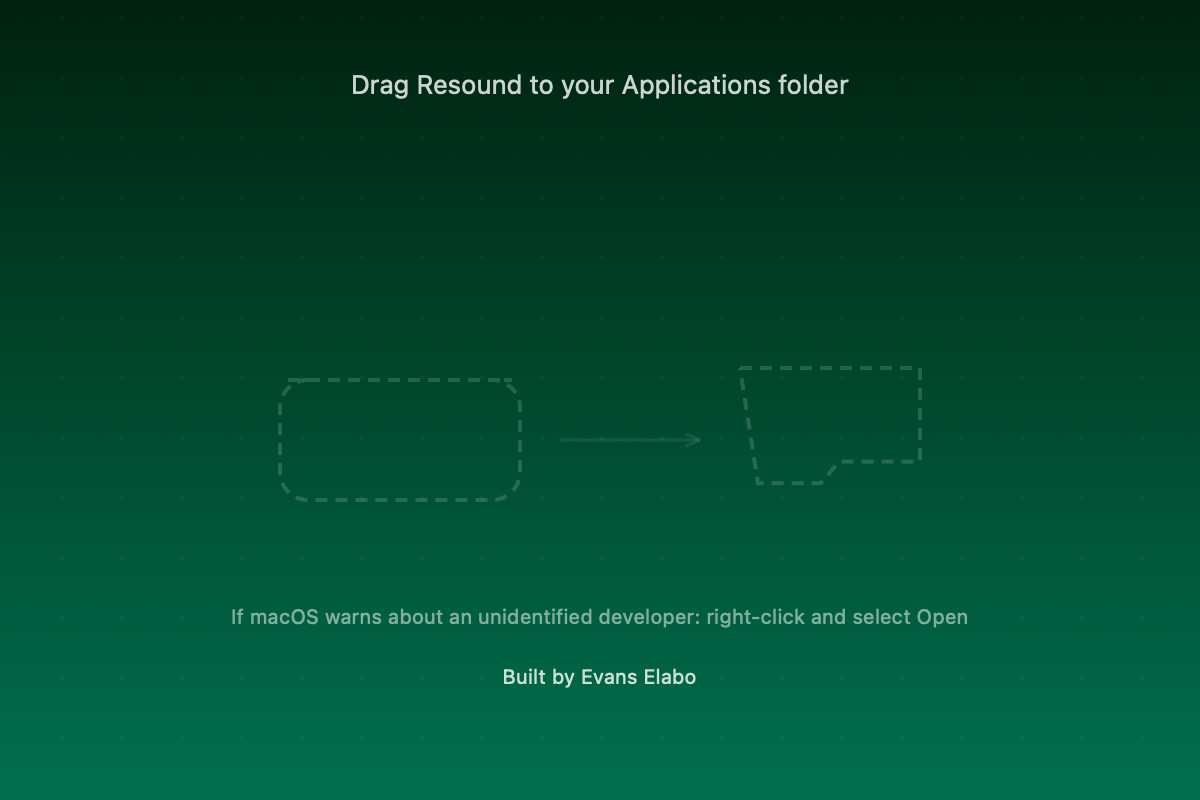
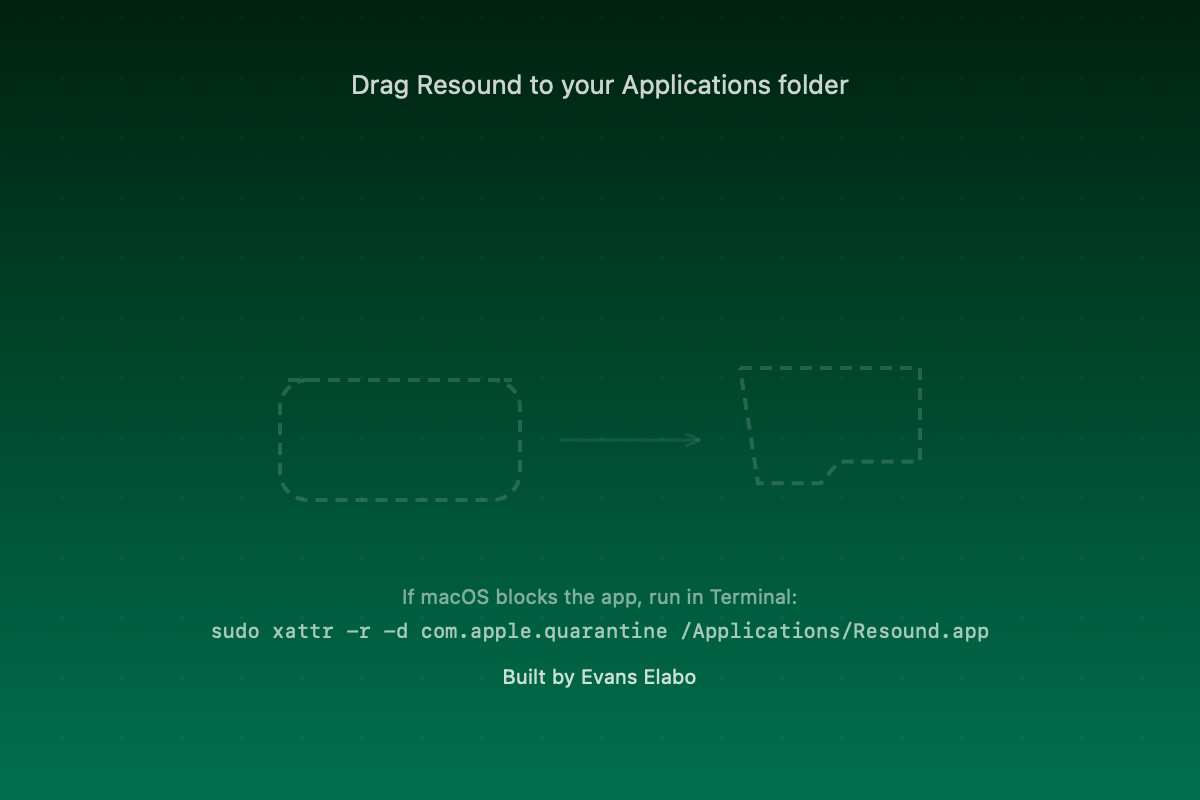
Add README with install instructions

Changed region(s): [[0.185, 0.7188, 0.8325, 0.8125]]

diff --git a/scripts/generate-background.swift b/scripts/generate-background.swift
@@ -101,13 +101,20 @@ let instrSize = (instruction as NSString).size(withAttributes: instrAttr)
 (instruction as NSString).draw(at: CGPoint(x: CGFloat(width) / 2 - instrSize.width / 2, y: CGFloat(height) - 50), withAttributes: instrAttr)
 
 // Gatekeeper hint
-let gkNote = "If macOS warns about an unidentified developer: right-click and select Open"
+let gkNote = "If macOS blocks the app, run in Terminal:"
+let gkCmd = "sudo xattr -r -d com.apple.quarantine /Applications/Resound.app"
 let gkAttr: [NSAttributedString.Key: Any] = [
     .font: NSFont.systemFont(ofSize: 10, weight: .regular),
     .foregroundColor: NSColor(white: 1, alpha: 0.5)
 ]
+let gkCmdAttr: [NSAttributedString.Key: Any] = [
+    .font: NSFont.monospacedSystemFont(ofSize: 10, weight: .regular),
+    .foregroundColor: NSColor(white: 1, alpha: 0.65)
+]
 let gkSize = (gkNote as NSString).size(withAttributes: gkAttr)
-(gkNote as NSString).draw(at: CGPoint(x: CGFloat(width) / 2 - gkSize.width / 2, y: 85), withAttributes: gkAttr)
+(gkNote as NSString).draw(at: CGPoint(x: CGFloat(width) / 2 - gkSize.width / 2, y: 95), withAttributes: gkAttr)
+let gkCmdSize = (gkCmd as NSString).size(withAttributes: gkCmdAttr)
+(gkCmd as NSString).draw(at: CGPoint(x: CGFloat(width) / 2 - gkCmdSize.width / 2, y: 78), withAttributes: gkCmdAttr)
 
 // Builder credit
 let credit = "Built by Evans Elabo"

diff --git a/README.md b/README.md
@@ -1,0 +1,59 @@
+# Resound
+
+A macOS menubar app that adds a Dynamic Island-style music controller to your Mac's notch. Sits as a compact pill at the top of the screen showing now-playing info from Spotify or Apple Music — expands on hover with full controls.
+
+![DMG preview](scripts/dmg-background.png)
+
+## Features
+
+- **Dynamic Island pill** — compact (38pt) and expanded (192pt) states with smooth animation
+- **Now playing** — track info, album art, progress bar with elapsed/remaining time
+- **Playback controls** — play/pause, skip, previous
+- **Waveform visualization** — customizable style and colors
+- **Global hotkeys** — play/pause, next, previous, toggle island
+- **Customizable position** — left, center, or right of the notch
+- **Menu bar icon** — quick access to track info and settings
+- **No dock icon** — runs quietly in the background
+
+## Requirements
+
+- macOS 14.0 (Sonoma) or later
+- A Mac with a notch (or without — the pill works anywhere)
+- Spotify or Apple Music
+
+## Installation
+
+### Download
+
+Download the latest `Resound.dmg` from the [Releases page](https://github.com/ellaboevans/resound-dynamic-island/releases).
+
+1. Open the DMG
+2. Drag **Resound.app** into **Applications**
+3. If macOS warns about an unidentified developer, run this in Terminal:
+
+   ```
+   sudo xattr -r -d com.apple.quarantine /Applications/Resound.app
+   ```
+
+4. Open Resound from Applications
+
+### Build from source
+
+```bash
+git clone https://github.com/ellaboevans/resound-dynamic-island.git
+cd resound-dynamic-island
+make release
+make dmg
+```
+
+Requires Swift 5.9+ and [create-dmg](https://github.com/create-dmg/create-dmg) (`brew install create-dmg`) for DMG building.
+
+## Usage
+
+Launch Resound — it appears in your menubar. The pill shows at the top of your screen when music is playing. Hover to expand. Use the menubar icon for settings and playback controls.
+
+Configure hotkeys, position, and appearance in **Settings** (accessible from the menubar icon).
+
+## Credits
+
+Built by Evans Elabo